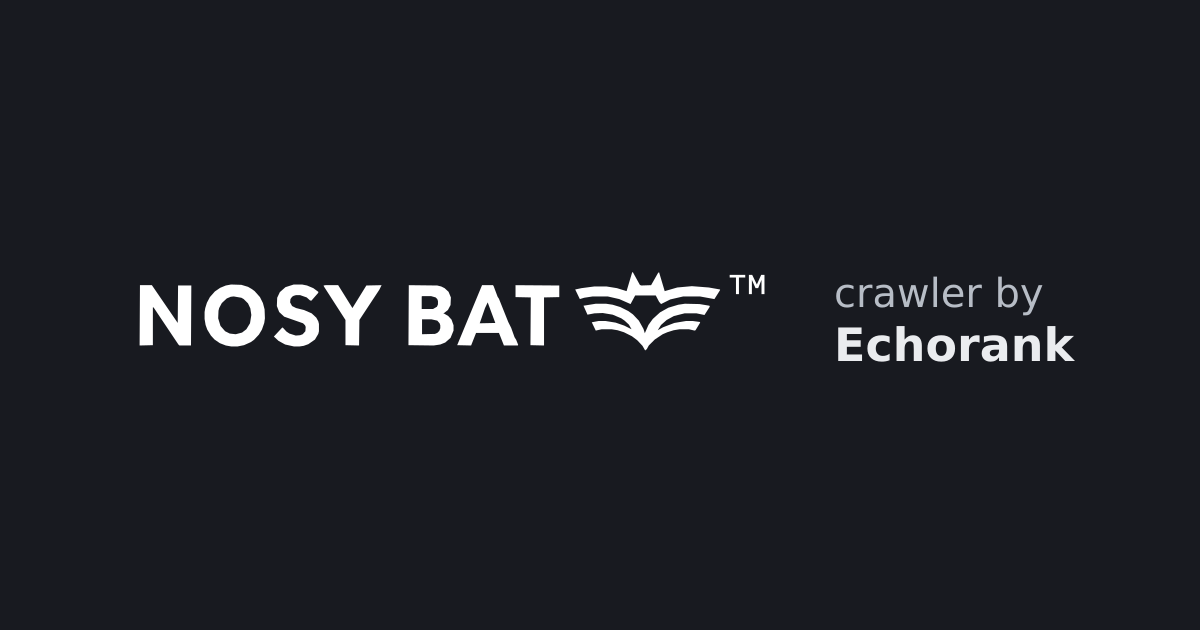
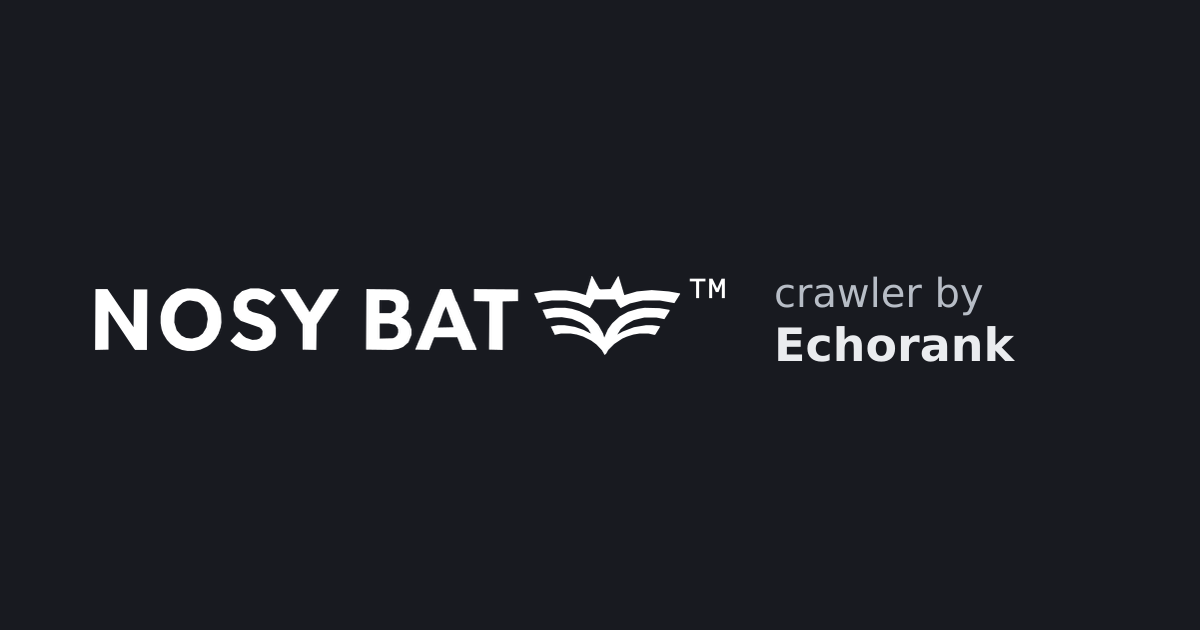
nosy bat: tighten the v3 wordmark viewBox to the glyphs (1915x266, 7.2:1); PNGs and og.png regenerated; drop the unused 512 px mark
viewBox="195 218 1915 266" on the three wordmark SVGs (glyph box x 210-2095,
y 233-469, plus ~15 units); paths, colours and the ™ untouched. brand.ts:
1915x266, logoWidthAt follows. The wordmark PNGs (240/480/800/1200) are
rendered from the SVGs by the new scripts/gen-nosy-bat-pngs.mjs; og.png from
the white one. Top bar: 30 px high (216 wide) with the byline beside it from
sm up; on a phone the logo shrinks to the room left and the byline sits under
it, clear of the bell and avatar. nosy-bat-mark-512.png deleted (unused).
Logo tests updated for the ratio.

Changed region(s): [[0.0617, 0.4222, 0.8942, 0.573]]

diff --git a/tests/nosy-bat-logo.test.tsx b/tests/nosy-bat-logo.test.tsx
@@ -2,8 +2,9 @@
 //
 // tests/nosy-bat-logo.test.tsx — the Nosy Bat v3 wordmark and emblem
 // (public/nosy-bat/v3/):
-//   - the files are there: the wordmark SVGs at viewBox 0 0 2172 724 (3:1), the
-//     emblem SVGs with a square viewBox, the PNGs at their stated sizes;
+//   - the files are there: the wordmark SVGs at viewBox 195 218 1915 266 (cropped
+//     to the glyphs, ~7.2:1), the emblem SVGs with a square viewBox, the PNGs
+//     at their stated sizes and the wordmarks' ratio;
 //   - the old marks and the v2 raster folder are gone and nothing references
 //     them (app code, scripts, tests, the sidecar's PDF code);
 //   - every CRAWLER_BRAND asset field is a plain string path (or the two
@@ -43,7 +44,7 @@ import { logoHeader, scheduleEmail } from "@/lib/site-crawler/schedule-email";
 const ROOT = join(__dirname, "..");
 const SIDECAR = "/opt/echorank/av-service";
 const V3 = join(ROOT, "public/nosy-bat/v3");
-const DELETED = ["nosy-bat-mark.svg", "nosy-bat-mark-on-dark.svg", "nosy-bat/v2"];
+const DELETED = ["nosy-bat-mark.svg", "nosy-bat-mark-on-dark.svg", "nosy-bat-mark-512.png", "nosy-bat/v2"];
 const LOCALES = ["en", "fr", "de-CH"] as const;
 
 function walk(dir: string, exts: RegExp, out: string[] = []): string[] {
@@ -72,12 +73,13 @@ function viewBox(publicPath: string): number[] {
 }
 
 describe("the v3 files", () => {
-  it("the three wordmark SVGs are 2172x724 (3:1)", () => {
+  it("the three wordmark SVGs are cropped to the glyphs: viewBox 195 218 1915 266 (~7.2:1)", () => {
     for (const f of [CRAWLER_BRAND.logo, CRAWLER_BRAND.logoOnDark, CRAWLER_BRAND.logoOnDarkAccent]) {
-      expect(viewBox(f)).toEqual([0, 0, 2172, 724]);
+      expect(viewBox(f)).toEqual([195, 218, 1915, 266]);
     }
-    expect([CRAWLER_BRAND.logoWidth, CRAWLER_BRAND.logoHeight]).toEqual([2172, 724]);
-    expect(logoWidthAt(30)).toBe(90);
+    expect([CRAWLER_BRAND.logoWidth, CRAWLER_BRAND.logoHeight]).toEqual([1915, 266]);
+    expect(CRAWLER_BRAND.logoWidth / CRAWLER_BRAND.logoHeight).toBeCloseTo(7.2, 1);
+    expect(logoWidthAt(30)).toBe(216);
   });
 
   it("the emblem SVGs have a square viewBox; the mask one fills with currentColor", () => {
@@ -92,7 +94,7 @@ describe("the v3 files", () => {
 
   it("the PNGs are at their stated sizes", () => {
     for (const v of ["nosy-bat-logo", "nosy-bat-logo-on-dark", "nosy-bat-logo-on-dark-teal"]) {
-      for (const w of [240, 480, 800, 1200]) expect(pngSize(join(V3, `${v}-${w}.png`))).toEqual([w, Math.round(w / 3)]);
+      for (const w of [240, 480, 800, 1200]) expect(pngSize(join(V3, `${v}-${w}.png`))).toEqual([w, Math.round((w * 266) / 1915)]);
     }
     for (const s of [512, 64, 32, 20]) expect(pngSize(join(V3, `nosy-bat-emblem-${s}.png`))).toEqual([s, s]);
     expect(CRAWLER_BRAND.favicon).toBe("/nosy-bat/v3/nosy-bat-emblem-32.png");
@@ -110,7 +112,7 @@ describe("the v3 files", () => {
 
 describe("the deleted files", () => {
   it("are gone", () => {
-    for (const f of ["nosy-bat-mark.svg", "nosy-bat-mark-on-dark.svg", "v2"]) expect(existsSync(join(ROOT, "public/nosy-bat", f))).toBe(false);
+    for (const f of ["nosy-bat-mark.svg", "nosy-bat-mark-on-dark.svg", "nosy-bat-mark-512.png", "v2"]) expect(existsSync(join(ROOT, "public/nosy-bat", f))).toBe(false);
   });
 
   it("are referenced by no code: src, scripts, tests, the sidecar", () => {
@@ -149,7 +151,7 @@ function checkImg(img: Element | null, src: string, height: number) {
   expect(img).not.toBeNull();
   expect(img!.tagName).toBe("IMG");
   expect(img!.getAttribute("src")).toBe(src);
-  expect([img!.getAttribute("width"), img!.getAttribute("height")]).toEqual([String(height * 3), String(height)]);
+  expect([img!.getAttribute("width"), img!.getAttribute("height")]).toEqual([String(logoWidthAt(height)), String(height)]);
 }
 
 let el: HTMLDivElement;
@@ -171,7 +173,7 @@ afterEach(() => {
 describe.each(LOCALES)("%s", (l) => {
   const t = SITE_CRAWLER_COPY[l];
 
-  it("top bar on /crawler/*: the teal logo, 30 px high and 90 wide (alt = the name), then the byline text", async () => {
+  it("top bar on /crawler/*: the teal logo, 30 px high and 216 wide (alt = the name), then the byline text", async () => {
     nav.pathname = "/crawler/abc";
     await act(async () => root.render(createElement(Header, { title: CRAWLER_BRAND.name, byline: t.byline, locale: l })));
     const img = el.querySelector("header h1 img");
@@ -237,7 +239,7 @@ describe.each(LOCALES)("%s", (l) => {
 
   it("schedule email: the 800 px PNG, absolute, shown 240 px wide, the byline as text", () => {
     const m = scheduleEmail({ locale: l, host: "x.com", crawlJobId: "j", pagesCrawled: 3, issues: { ERROR: 0, WARNING: 0, NOTICE: 0 }, comparison: null });
-    expect(m.html).toContain(`<img src="${CRAWLER_BRAND.logoEmail}" width="240" height="80" alt="${CRAWLER_BRAND.name}"`);
+    expect(m.html).toContain(`<img src="${CRAWLER_BRAND.logoEmail}" width="240" height="33" alt="${CRAWLER_BRAND.name}"`);
     expect(m.html.indexOf("<img")).toBeLessThan(m.html.indexOf("x.com"));
     expect(logoHeader("by")).toMatch(/<p[^>]*>by<\/p>$/);
   });

diff --git a/src/lib/site-crawler/brand.ts b/src/lib/site-crawler/brand.ts
@@ -16,15 +16,20 @@ const SITE = process.env.NEXT_PUBLIC_SITE_URL ?? "https://echorank360.com";
 const V3 = "/nosy-bat/v3";
 
 // The v3 wordmark and emblem (public/nosy-bat/v3/) are final SVGs: used as-is
-// at any size, never with edited paths, colours or ™. Every <img> of the logo
-// carries the 2172:724 (3:1) ratio as width/height. The byline is always text
+// at any size, never with edited paths, colours or ™. The wordmarks' viewBox is
+// cropped to the glyphs (195 218 1915 266: their box plus ~15 units each side),
+// so every <img> of the logo carries 1915:266 (~7.2:1) as width/height. The
+// PNGs are rendered from these files (scripts/gen-nosy-bat-pngs.mjs). The byline is always text
 // beside or under it, never in an image.
 
 /** The teal of the light-background logo and emblem (their fill). */
 export const NOSY_BAT_TEAL = "#027453";
 
-/** The logo's width at `height` px (3:1). */
-export const logoWidthAt = (height: number) => Math.round((height * 2172) / 724);
+const LOGO_W = 1915;
+const LOGO_H = 266;
+
+/** The logo's width at `height` px (1915:266). */
+export const logoWidthAt = (height: number) => Math.round((height * LOGO_W) / LOGO_H);
 
 export const CRAWLER_BRAND = {
   name: "Nosy Bat",
@@ -48,7 +53,7 @@ export const CRAWLER_BRAND = {
   logoEmail: `${SITE}${V3}/nosy-bat-logo-800.png`,
   /** The PDF cover: the same PNG. The sidecar reads it from disk (AV_CRAWLER_LOCKUP_PATH). */
   logoPdf: `${SITE}${V3}/nosy-bat-logo-800.png`,
-  logoWidth: 2172,
-  logoHeight: 724,
+  logoWidth: LOGO_W,
+  logoHeight: LOGO_H,
   ua: "Echorank360Bot/2.0 (Nosy Bat; +https://echorank360.com/bot)",
 } as const;

diff --git a/src/components/layout/header.tsx b/src/components/layout/header.tsx
@@ -69,7 +69,7 @@ export function Header({
 
   return (
     <header className="sticky top-0 z-30 flex h-16 items-center justify-between border-b border-gray-200 bg-white px-4 sm:px-6">
-      <div className="flex items-center gap-3">
+      <div className="flex min-w-0 items-center gap-3">
         {/* Mobile menu toggle */}
         <button
           type="button"
@@ -81,9 +81,12 @@ export function Header({
         </button>
 
         {crawler ? (
-          <h1 className="flex items-center gap-2 text-lg font-semibold text-gray-900 sm:text-xl">
-            <NosyBatLogo height={30} alt={title} className="shrink-0" testId="topbar-logo" />
-            {byline && <span className="text-xs font-normal text-gray-500">{byline}</span>}
+          // 30 px high (216 wide) with the byline beside it from sm up; on a phone
+          // the two do not fit beside the bell and avatar, so the logo shrinks to
+          // the room left (ratio kept) and the byline sits under it.
+          <h1 className="flex min-w-0 flex-col items-start gap-0.5 text-lg font-semibold text-gray-900 sm:flex-row sm:items-center sm:gap-2 sm:text-xl">
+            <NosyBatLogo height={30} alt={title} className="min-w-0 sm:shrink-0" testId="topbar-logo" />
+            {byline && <span className="whitespace-nowrap text-xs font-normal leading-none text-gray-500 sm:leading-normal">{byline}</span>}
           </h1>
         ) : (
           <h1 className="text-lg font-semibold text-gray-900 sm:text-xl">

diff --git a/tests/free-crawler-result.test.tsx b/tests/free-crawler-result.test.tsx
@@ -147,7 +147,7 @@ describe("the result page", () => {
     addRow("tok_abcdefghijklmnop");
     await renderResult("tok_abcdefghijklmnop");
     const logo = el.querySelector('[data-testid="free-result-lockup"] img')!;
-    expect([logo.getAttribute("src"), logo.getAttribute("alt"), logo.getAttribute("width"), logo.getAttribute("height")]).toEqual([CRAWLER_BRAND.logoOnDark, CRAWLER_BRAND.name, "108", "36"]);
+    expect([logo.getAttribute("src"), logo.getAttribute("alt"), logo.getAttribute("width"), logo.getAttribute("height")]).toEqual([CRAWLER_BRAND.logoOnDark, CRAWLER_BRAND.name, "259", "36"]);
     expect(el.querySelector('[data-testid="free-result-lockup"]')!.textContent).toBe(CRAWLER_BRAND.byline);
     expect(el.querySelector('[data-testid="free-result-host"]')!.textContent).toBe("www.example.org");
     expect(el.querySelector('[data-testid="free-result-health"]')!.textContent).toContain("41");

diff --git a/src/components/brand/NosyBatLogo.tsx b/src/components/brand/NosyBatLogo.tsx
@@ -1,5 +1,5 @@
 // <NosyBatLogo> — the crawler brand's v3 wordmark as an <img> of the SVG, used
-// as-is, with explicit width and height at 3:1 so nothing shifts while it loads.
+// as-is, with explicit width and height at 1915:266 so nothing shifts while it loads.
 //
 // No hooks and no server imports, so Server and Client Components both use it.
 // `tone` picks the file: "light" (teal, light backgrounds), "dark" (white),
@@ -21,7 +21,7 @@ export function NosyBatLogo({
   className,
   testId,
 }: {
-  /** Rendered height in CSS px; the width is 3x. */
+  /** Rendered height in CSS px; the width follows (logoWidthAt). */
   height: number;
   /** Accessible name; "" makes it decorative (aria-hidden). */
   alt: string;

diff --git a/tests/crawler-brand-once.test.tsx b/tests/crawler-brand-once.test.tsx
@@ -71,7 +71,7 @@ describe.each(["en", "fr", "de-CH"] as const)("/crawler (%s)", (l) => {
     const logo = found[0]!;
     expect(logo.tagName).toBe("IMG");
     expect(logo.getAttribute("alt")).toBe(CRAWLER_BRAND.name);
-    expect([logo.getAttribute("width"), logo.getAttribute("height")]).toEqual(["90", "30"]);
+    expect([logo.getAttribute("width"), logo.getAttribute("height")]).toEqual(["216", "30"]);
     expect(logo.getAttribute("src")).toBe(CRAWLER_BRAND.logo);
     const h1 = logo.closest("h1")!;
     expect(h1.closest("header")).not.toBeNull();

diff --git a/src/lib/site-crawler/schedule-email.ts b/src/lib/site-crawler/schedule-email.ts
@@ -120,7 +120,7 @@ const EMAIL_LOGO_W = 240;
 
 /**
  * The email's header: the teal logo as an 800 px PNG (email clients do not
- * all render SVG), shown 240 px wide at 3:1, and the byline as text under it.
+ * all render SVG), shown 240 px wide at its ratio, and the byline as text under it.
  */
 export function logoHeader(byline: string): string {
   const h = Math.round((EMAIL_LOGO_W * CRAWLER_BRAND.logoHeight) / CRAWLER_BRAND.logoWidth);
